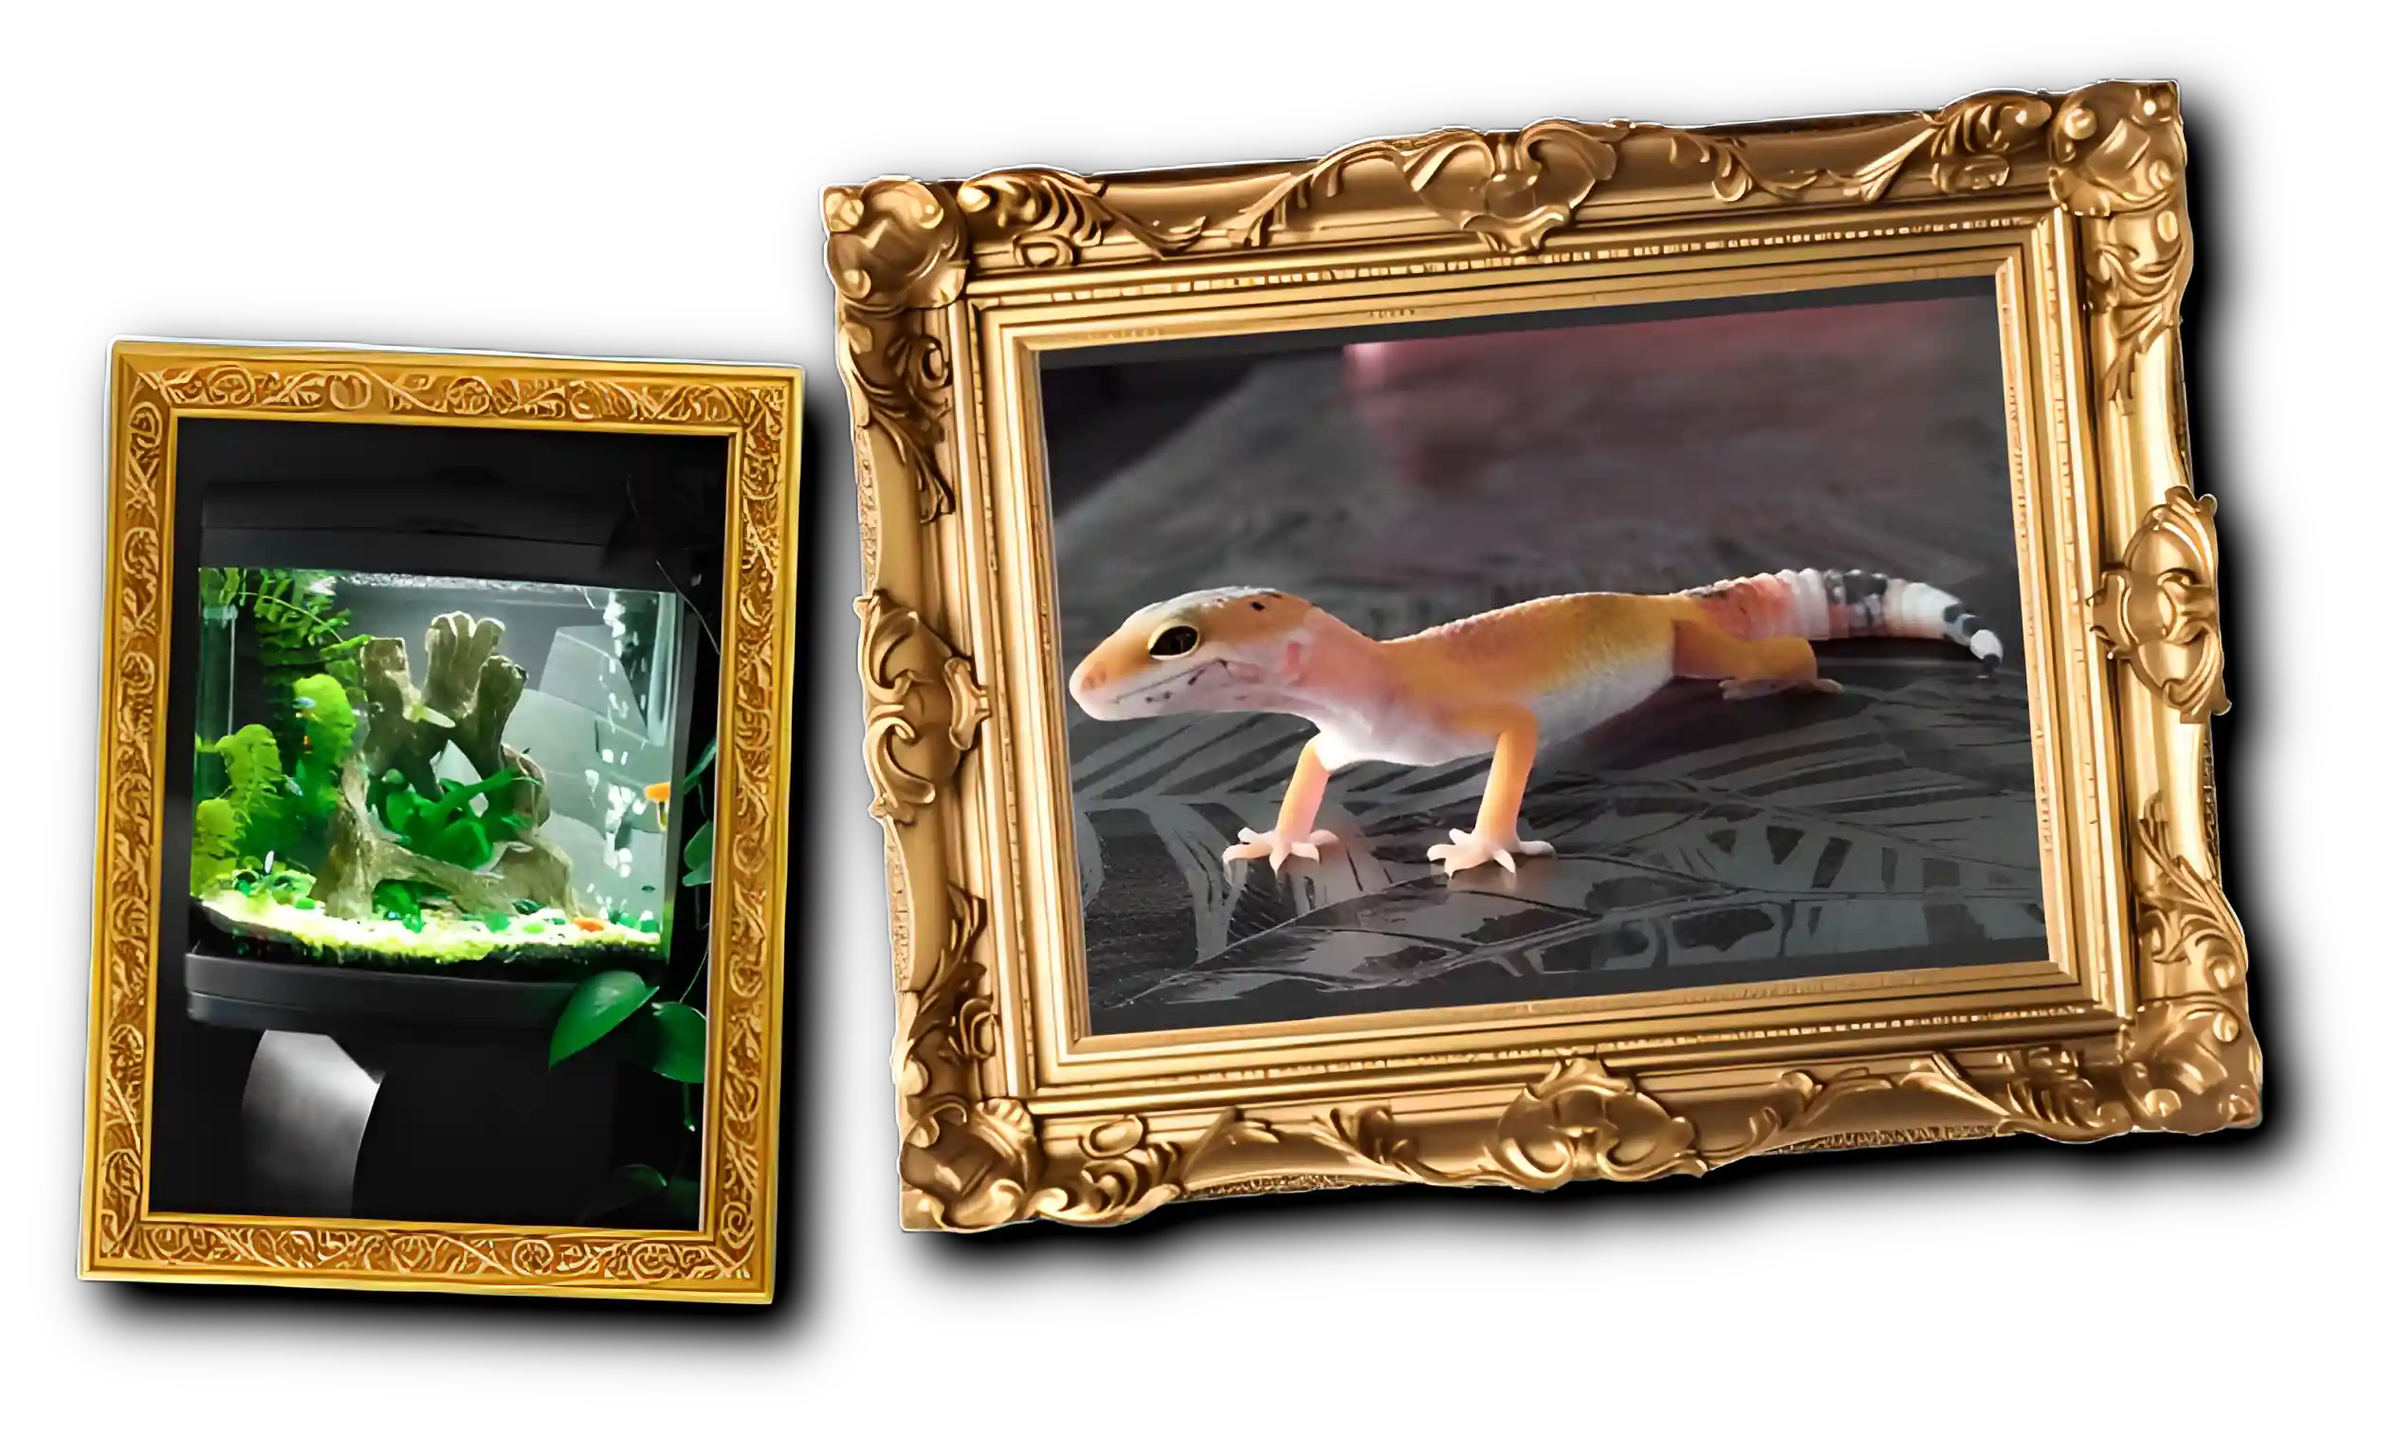
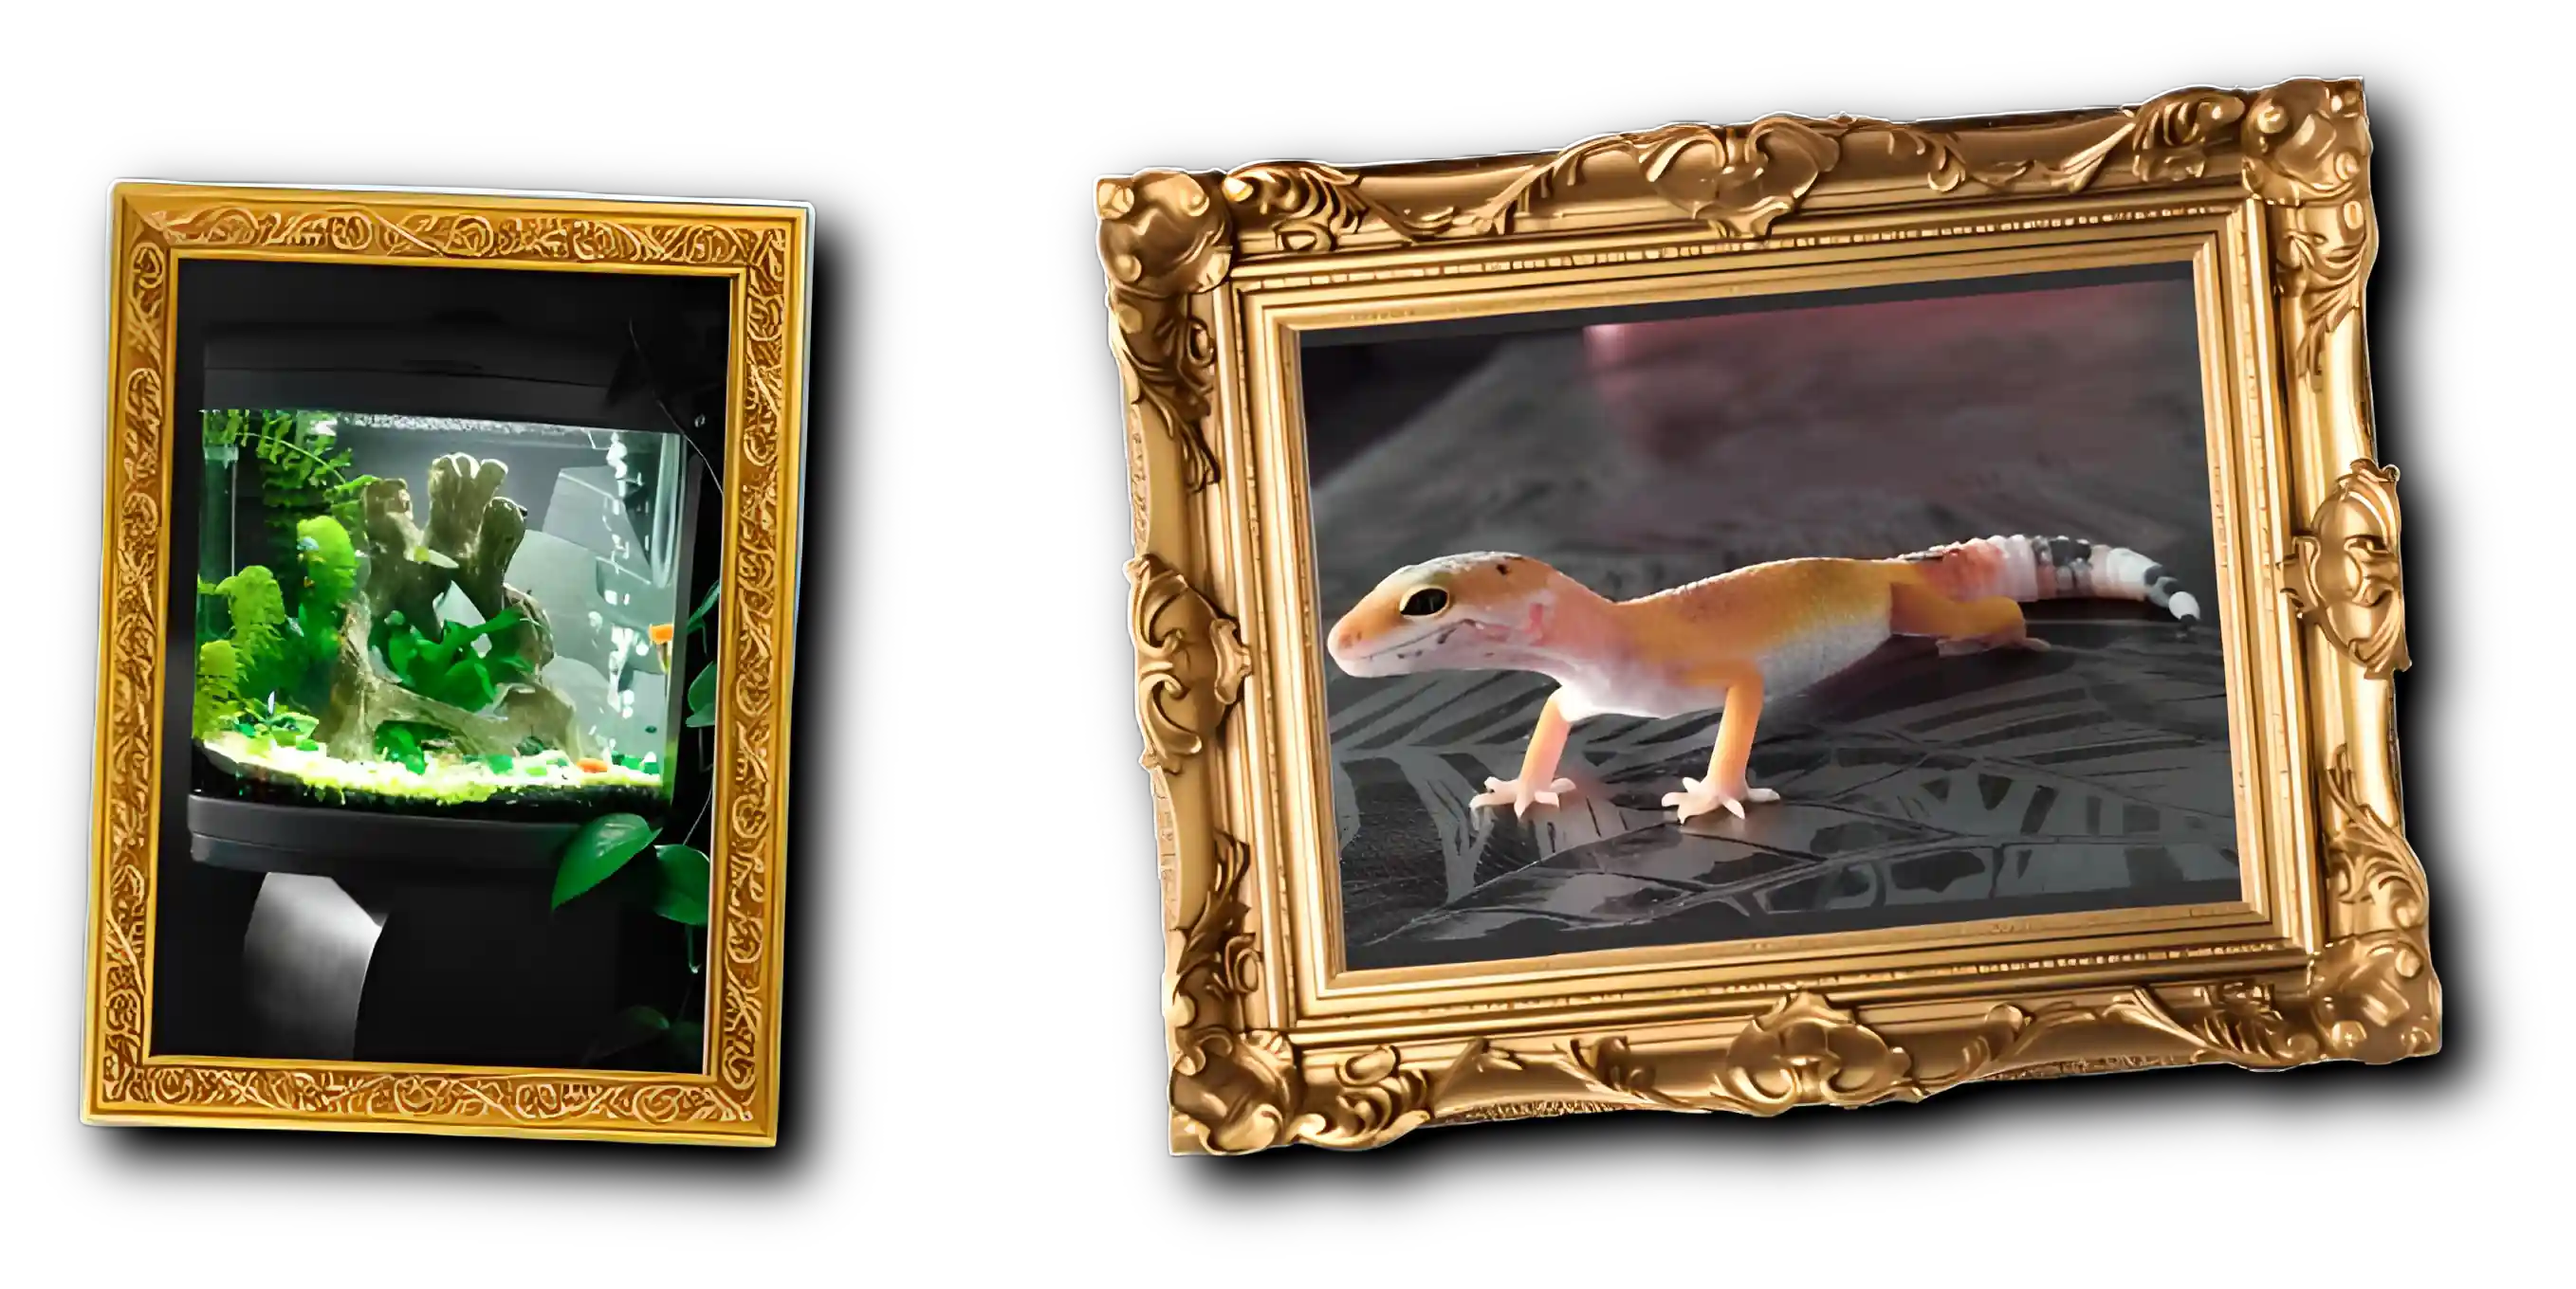
- Finished personal section

diff --git a/src/components/views/Resume/PersonalSection/PersonalSection.js b/src/components/views/Resume/PersonalSection/PersonalSection.js
@@ -18,75 +18,88 @@ const PersonalSection = () => {
 
   return (
     <ContentSection
-      className="mb-2"
+      className="mb-2 personal-section"
       startExpanded={false}
       title={t("resumePage.personalSectionTitle")}
     >
       <div className="row mt-3">
-        No esta de mas conocer un poco con quien vas a pasar unas 40h a la
-        semana, por ello esta sección es un poquito más personal. Nacido en
-        Ucrania y ciado en un pueblo del sur de Navarra, actualmente convivo con
-        mi gecko leopardo (Menta) y una docena de peces amazónicos en Pamplona.
-      </div>
-      <div className="row ">
         <div className="col-6">
+          <div className="row mt-4">
+            <p>
+              No esta de mas conocer un poco con quien vas a interactuar casi
+              todos los días... por ello esta sección es más personal:
+              <br />
+              <br />
+              Nacido en Ucrania y criado en un pueblo del sur de Navarra, tengo
+              un poco de los dos mundos. Ahora convivo con un gecko leopardo y
+              una docena de peces amazónicos en Pamplona.
+            </p>
+          </div>
+
+          <div className="row text-center">
+            <ImageComponent logo={Pets} width={"45vw"} hoverScale={1} />
+          </div>
+        </div>
+        <div className="col-6 text-start">
           <ImageComponent
             className="align-europe-map"
             logoDark={EuropeMapDark}
             logoLight={EuropeMapLight}
-            width={"46vw"}
-            hoverScale={1}
-          />
-        </div>
-        <div className="col-6 text-end">
-          <ImageComponent
-            className={"mt-5"}
-            logo={Pets}
-            width={"45vw"}
+            width={"42vw"}
             hoverScale={1}
           />
         </div>
       </div>
       <div className="row">
-        <div className="col-6 text-start">
-          <div className="row">
-            Soy una persona con dos facetas diferenciadas: una intensa,
-            despreocupada y enérgica, otra responsable, comprometida y
-            profesional. Lo importante es saber cuál toca sacar en cada momento.
-            <br />
-            <br />
-            Al mismo tiempo gusta lo tradicional y también lo moderno, natural y
-            urbano, tranquilo e intenso, exacto y creativo...
-            <br />
-            ¿Bangkok o los Pirineos? ¿Programación o diseño? ¿En casa con los
-            colegas o de fiesta a Budapest? ¿Meditación o motocross?
-            <br />
-            Siempre hay algun proyecto para hacer: desarrollo, diseño,
-            reparaciones, botánica, impresión 3D, pintura... Crecer y aprender
-            es importante. Mención especial al mundo del motor: mecánica,
-            coches, motos...
-            <br />
-            <br />
-            Siempre he tenido una manera muy única de hacer las cosas, y aprendí
-            a sacarle provecho. Todos tenemos temporadas buenas y otras no tan
-            buenas, nunca hay que perder la perspectiva y dejar de pensar a lo
-            grande. Solo se vive una vez.
-            <br />
-            <br />
-            Podemos hablar de otros temas más filosóficos con un par de cervezas
-            tras alguna cena corporativa; el networking es importante.
+        <div className="col-6">
+          <div className="row text-start">
+            <p>
+              Soy una persona con dos facetas: una intensa, despreocupada y
+              enérgica, otra responsable, comprometida y profesional. Lo
+              importante es saber cuál toca sacar en cada momento.
+              <br />
+              <br />
+              Al mismo tiempo gusta lo tradicional y también lo moderno, natural
+              y urbano, tranquilo e intenso, calculador y creativo...
+              <br />
+              <br />
+              ¿Bangkok o los Pirineos? ¿Programación o diseño? ¿En casa con los
+              colegas o de fiesta a Budapest? ¿Paseo por el monte o motocross?
+              <br />
+              <br />
+              Siempre hay algun proyecto para hacer: desarrollo, diseño,
+              reparaciones, botánica, impresión 3D, pintura... Crecer y aprender
+              es importante. Mención especial al mundo del motor: mecánica,
+              coches, motos...
+              <br />
+              <br />
+              Siempre he tenido una manera muy única de hacer las cosas, y
+              aprendí a sacarle provecho. Todos tenemos temporadas buenas y
+              otras no tan buenas, nunca hay que perder la perspectiva y dejar
+              de pensar a lo grande. Solo se vive una vez.
+              <br />
+              <br />
+              Podemos hablar de otros temas más filosóficos con un par de
+              cervezas tras alguna cena corporativa; el networking es
+              importante.
+            </p>
           </div>
           <div className="row">
             <ImageComponent
-              className="align-personal-photos-left"
+              className="align-personal-photos-right"
               logo={PersonalPhotos2}
-              width={"50vw"}
+              width={"54vw"}
               hoverScale={1}
             />
           </div>
         </div>
-        <div className="col-6 text-center align-personal-photos-right">
-          <ImageComponent logo={PersonalPhotos} width={"40vw"} hoverScale={1} />
+        <div className="col-6 text-center">
+          <ImageComponent
+            className="align-personal-photos-left"
+            logo={PersonalPhotos}
+            width={"47vw"}
+            hoverScale={1}
+          />
         </div>
       </div>
     </ContentSection>

diff --git a/src/components/views/Resume/PersonalSection/PersonalSection.scss b/src/components/views/Resume/PersonalSection/PersonalSection.scss
@@ -1,9 +1,16 @@
 .align-europe-map {
-  margin-left: -2.5vw !important;
+  margin-top: -4vh;
+  margin-left: 3vw;
 }
 .align-personal-photos-left {
-  margin-left: -2.5vw !important;
+  margin-top: -10vh;
 }
 .align-personal-photos-right {
-  margin-top: -19vh !important;
+  margin-left: -3vw;
+}
+.personal-section {
+  font-size: 1.1em;
+}
+.initial-personal-text {
+  margin-top: 7vh;
 }
